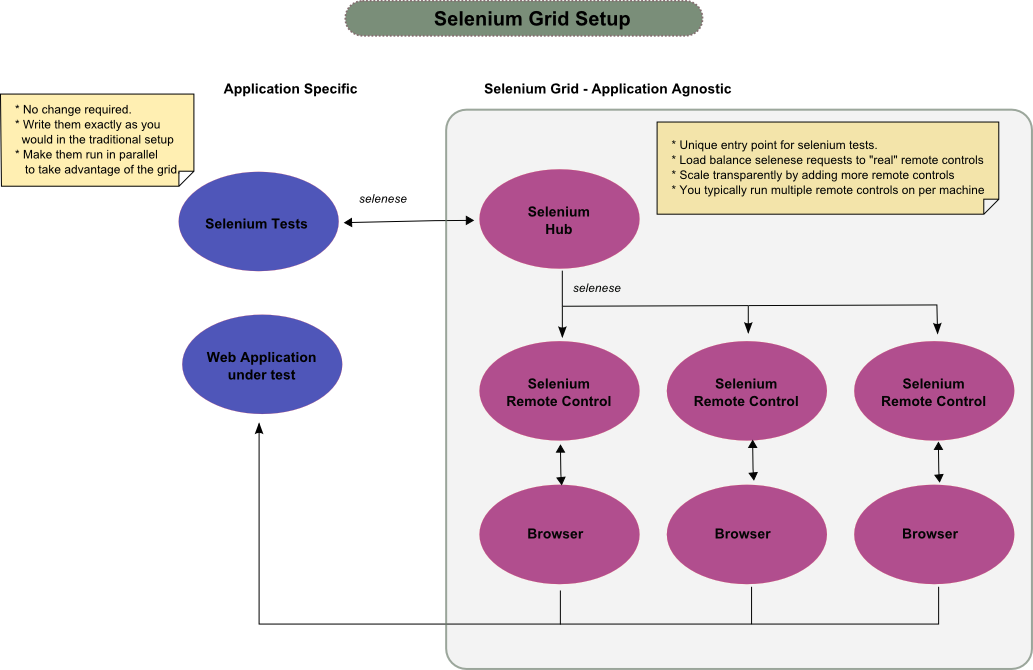
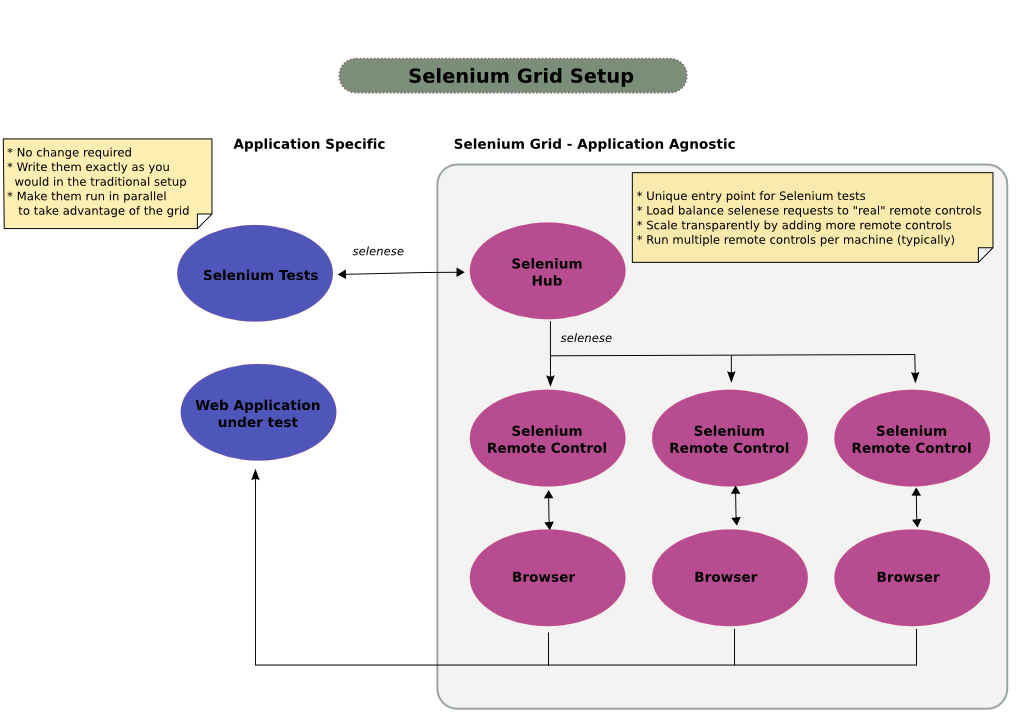
Corrected spelling mistakes in SVG diagrams
git-svn-id: https://svn.openqa.org/svn/selenium-grid/trunk@68 22590ab4-ef3b-0410-9bef-a9f5a1089f47

diff --git a/website/how_it_works.html b/website/how_it_works.html
@@ -229,7 +229,7 @@
 
 <p>Either way, you can make a Selenium Grid aware of the environments you care about. The Selenium Hub will then ensure that a test runs only on the Selenium Remote Controls providing the requested environment. </p>
 
-<p><a href="Requesting%20a%20Specific%20Environments.png" title="Click for larger image"><img src="Requesting%20a%20Specific%20Environment%20-%20Small.png" alt=""/></a></p>
+<p><a href="Requesting%20a%20Specific%20Environment.png" title="Click for larger image"><img src="Requesting%20a%20Specific%20Environment%20-%20Small.png" alt=""/></a></p>
 
 <p>The way it works is that Selenium Grid instruments the traditional Selenium Remote Controls so that they register themselves to the Hub when they start. When they do so they can also describe which environment they are providing, suppose Firefox on Windows. </p>
 

diff --git a/doc/website/how_it_works.html b/doc/website/how_it_works.html
@@ -70,7 +70,7 @@
 
 <p>Either way, you can make a Selenium Grid aware of the environments you care about. The Selenium Hub will then ensure that a test runs only on the Selenium Remote Controls providing the requested environment. </p>
 
-<p><a href="Requesting%20a%20Specific%20Environments.png" title="Click for larger image"><img src="Requesting%20a%20Specific%20Environment%20-%20Small.png" alt=""/></a></p>
+<p><a href="Requesting%20a%20Specific%20Environment.png" title="Click for larger image"><img src="Requesting%20a%20Specific%20Environment%20-%20Small.png" alt=""/></a></p>
 
 <p>The way it works is that Selenium Grid instruments the traditional Selenium Remote Controls so that they register themselves to the Hub when they start. When they do so they can also describe which environment they are providing, suppose Firefox on Windows. </p>
 
